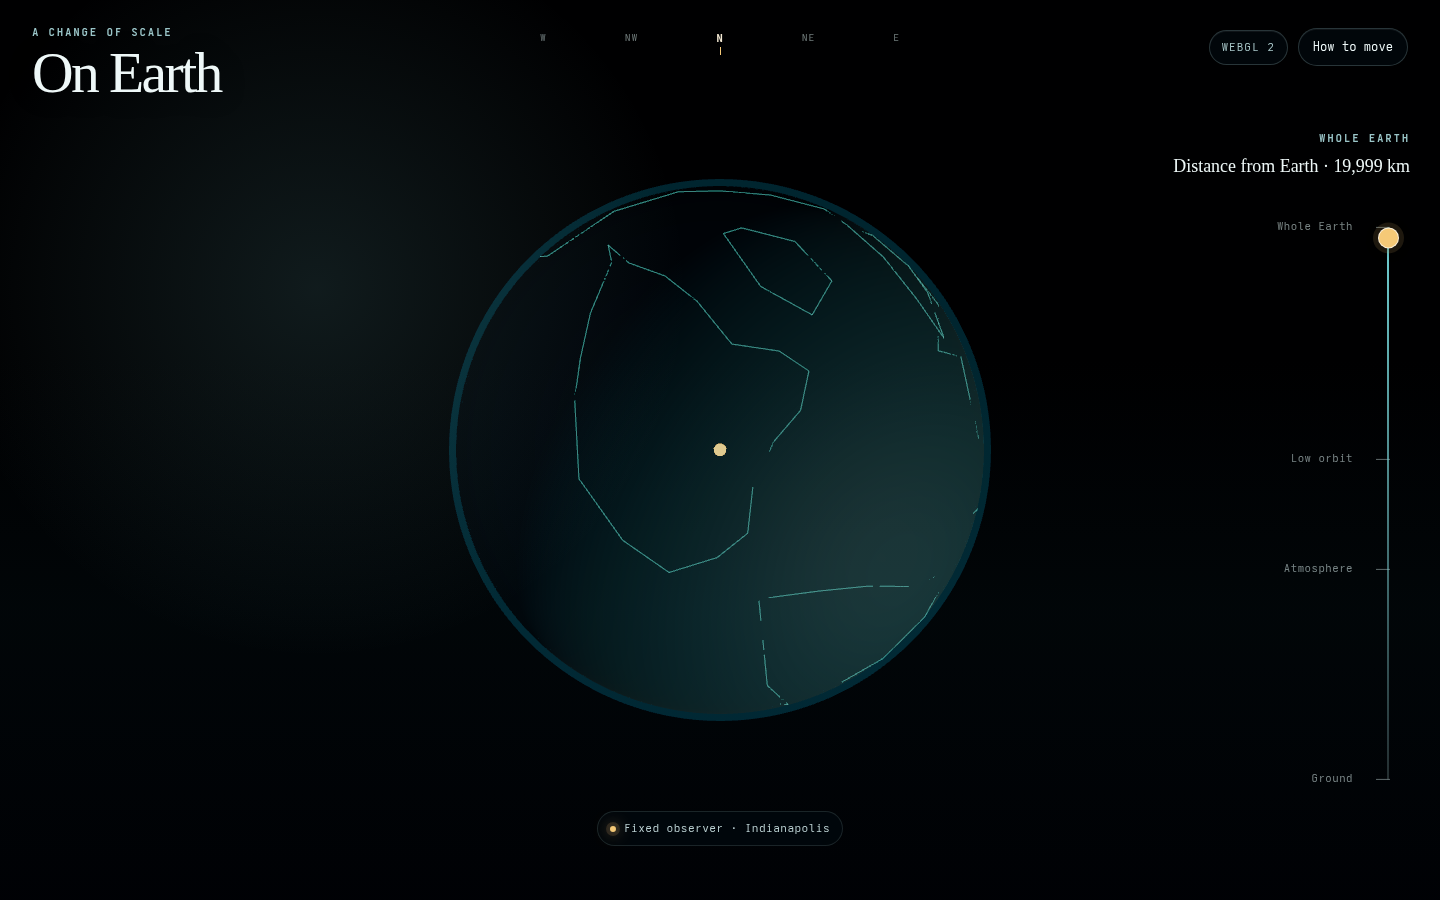
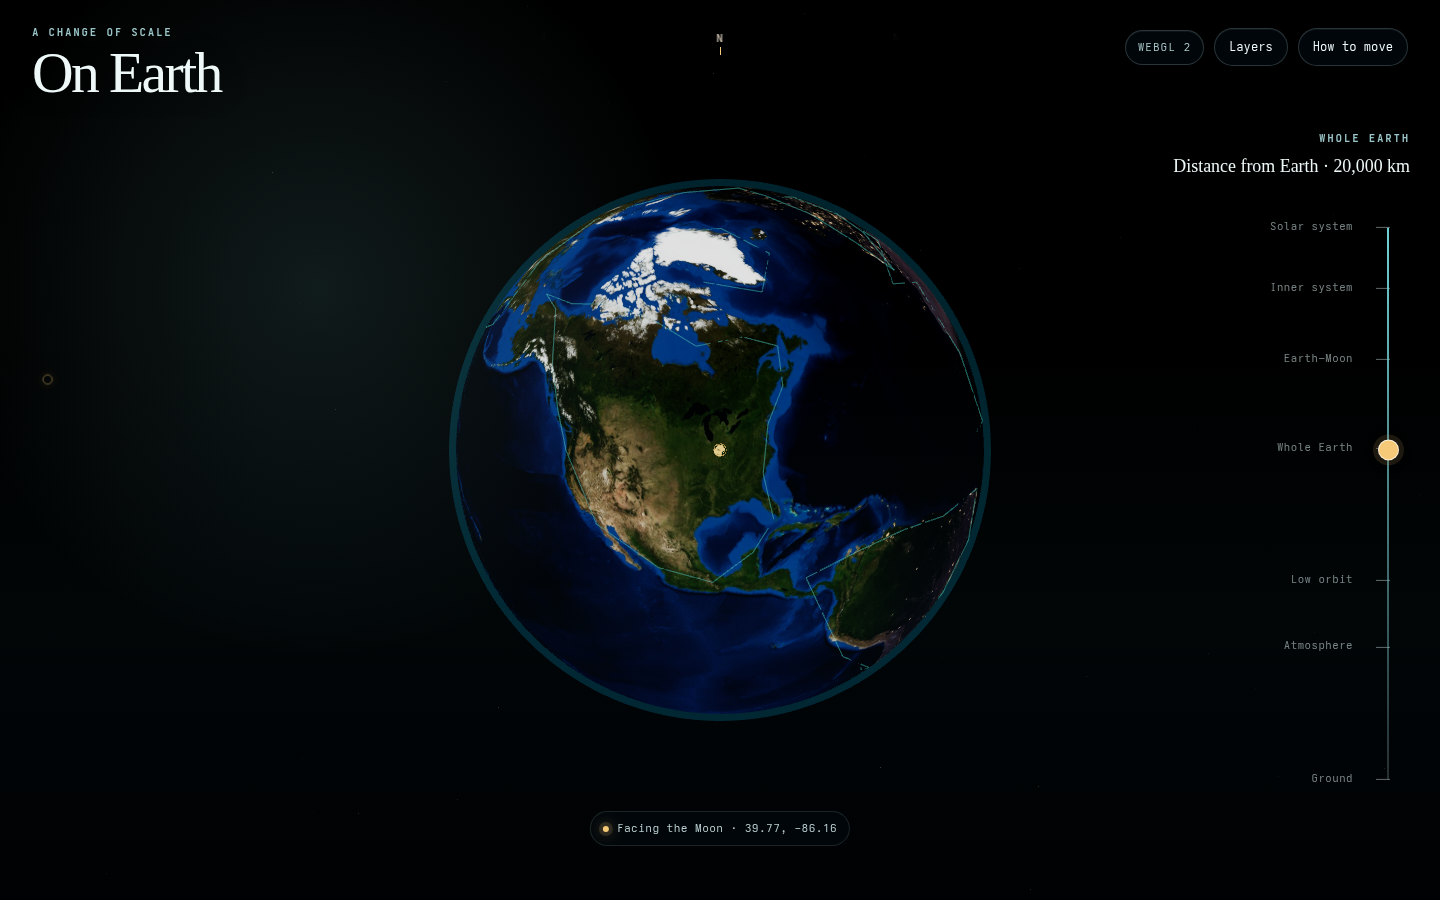
feat: begin the ecliptic roll at the atmosphere so the plane arrives flat
The screen-up re-level onto ecliptic north previously ran log-altitude
8.9→11.2 — past Earth–Moon — so the whole ascent stayed locked to the
ground frame and the Moon's orbit arrived on a steep diagonal. The band
is now 5→8.69: the roll starts as the sky gives way to space, turns
smoothly through low orbit and whole Earth, and is complete at the
Earth–Moon landmark, so the Moon's orbit and the solar system assemble
on an already-flat plane. Refreshed curated screenshots (plus a new
Earth–Moon capture), re-anchored the stale screenshots.spec slider
values, and switched the mobile Moon-marker activation to the keyboard
path (the marker can now sit under the debug card on portrait).

Claude-Session: https://claude.ai/code/session_01E5yZmSw5gTxraNDX9WxqBc

diff --git a/src/tests/camera.test.ts b/src/tests/camera.test.ts
@@ -83,15 +83,20 @@ describe("whole-Earth composition", () => {
     expect(journeyCompositionForSlider(1)).toBe(1);
   });
 
-  it("re-levels screen-up onto the ecliptic only beyond the Earth-Moon band", () => {
+  it("re-levels screen-up onto the ecliptic between the atmosphere and Earth-Moon", () => {
     expect(eclipticRollBlendForAltitude(2)).toBe(0);
-    expect(eclipticRollBlendForAltitude(20_000_000)).toBe(0);
-    expect(eclipticRollBlendForAltitude(500_000_000)).toBeLessThan(0.05);
-    expect(eclipticRollBlendForAltitude(400_000_000_000)).toBe(1);
+    expect(eclipticRollBlendForAltitude(100_000)).toBe(0);
+    // Turning through low orbit and whole Earth…
+    expect(eclipticRollBlendForAltitude(500_000)).toBeGreaterThan(0.05);
+    expect(eclipticRollBlendForAltitude(500_000)).toBeLessThan(0.25);
+    expect(eclipticRollBlendForAltitude(20_000_000)).toBeGreaterThan(0.5);
+    expect(eclipticRollBlendForAltitude(20_000_000)).toBeLessThan(0.9);
+    // …and already flat when the Earth–Moon system frames up.
+    expect(eclipticRollBlendForAltitude(500_000_000)).toBe(1);
     expect(eclipticRollBlendForAltitude(8_000_000_000_000)).toBe(1);
     // Monotonic through the transition band.
     let previous = 0;
-    for (let exponent = 8.9; exponent <= 11.2; exponent += 0.1) {
+    for (let exponent = 5; exponent <= 8.7; exponent += 0.1) {
       const value = eclipticRollBlendForAltitude(10 ** exponent);
       expect(value).toBeGreaterThanOrEqual(previous);
       previous = value;

diff --git a/src/camera/camera-compositions.ts b/src/camera/camera-compositions.ts
@@ -99,13 +99,15 @@ export function systemCompositionForAltitude(
 
 /**
  * How strongly screen-up re-levels from the observer's zenith to ecliptic
- * north on the outward journey (0 at Earth–Moon scale and below, 1 by the
- * inner system). This roll is the "I was standing on the side of a planet"
- * reveal: the solar system's plane settles flat while your ground tilts away.
+ * north on the outward journey (0 through the atmosphere, 1 by the
+ * Earth–Moon landmark). This roll is the "I was standing on the side of a
+ * planet" reveal: it begins as the sky fades to space, turns the world
+ * smoothly through low orbit and whole Earth, and has the solar system's
+ * plane already flat before the system assembles around it.
  */
 export function eclipticRollBlendForAltitude(altitudeM: number): number {
   const logAltitude = Math.log10(Math.max(1, altitudeM));
-  const t = Math.min(1, Math.max(0, (logAltitude - 8.9) / (11.2 - 8.9)));
+  const t = Math.min(1, Math.max(0, (logAltitude - 5) / (8.69 - 5)));
   return t * t * (3 - 2 * t);
 }
 

diff --git a/tests/e2e/screenshots.spec.ts b/tests/e2e/screenshots.spec.ts
@@ -5,10 +5,11 @@ const fixedScenario =
 
 const landmarks = [
   { name: "ground", sliderValue: "0", settleMs: 500 },
-  { name: "atmosphere", sliderValue: "0.3", settleMs: 2_500 },
-  { name: "low-orbit", sliderValue: "0.46", settleMs: 2_500 },
-  { name: "whole-earth", sliderValue: "0.78", settleMs: 3_500 },
-  { name: "earth-moon", sliderValue: "1", settleMs: 4_000 },
+  { name: "atmosphere", sliderValue: "0.24", settleMs: 2_500 },
+  { name: "low-orbit", sliderValue: "0.36", settleMs: 2_500 },
+  { name: "whole-earth", sliderValue: "0.6", settleMs: 3_500 },
+  { name: "earth-moon", sliderValue: "0.76", settleMs: 4_000 },
+  { name: "full-system", sliderValue: "1", settleMs: 5_000 },
 ] as const;
 
 test("captures fixed Phase 1 landmarks", async ({ page }, testInfo) => {

diff --git a/tests/e2e/phase-three.spec.ts b/tests/e2e/phase-three.spec.ts
@@ -49,10 +49,10 @@ test("the Moon's marker remains selectable at system scale and opens the inset",
   const moonMarker = page.locator(".sky-marker[data-body=moon]");
   await expect(moonMarker).toBeVisible();
   await expect(moonMarker).not.toHaveClass(/sky-marker--ghost/);
-  const markerBox = await moonMarker.boundingBox();
-  expect(markerBox).not.toBeNull();
-  if (!markerBox) return;
-  await page.mouse.click(markerBox.x + markerBox.width / 2, markerBox.y + 9);
+  // With the ecliptic roll the Moon can sit near the bottom edge, under the
+  // debug telemetry card on portrait — activate via the keyboard path.
+  await moonMarker.focus();
+  await page.keyboard.press("Enter");
 
   const inset = page.getByRole("complementary", { name: "Moon inspection" });
   await expect(inset).toBeVisible();

diff --git a/docs/ADR/0008-heliocentric-solar-system.md b/docs/ADR/0008-heliocentric-solar-system.md
@@ -70,9 +70,16 @@ landmarks — without enlarging any body.
 User feedback: the outward journey kept the observer's ground orientation as
 screen-up, so the solar system arrived tilted and the "I am standing on the
 side of a planet" realization never landed. The camera now rolls screen-up
-from the local zenith onto the J2000 ecliptic north across the band beyond
-Earth–Moon (log-altitude 8.9 → 11.2, `eclipticRollBlendForAltitude`): the
-system's plane settles flat on screen while the ground visibly tilts away.
-Implemented as a signed roll about the gaze axis applied to the base
-orientation; free-look offsets ride on top unchanged, and the blend is zero
-through every Phase 1–3 scale so earlier compositions are untouched.
+from the local zenith onto the J2000 ecliptic north, implemented as a signed
+roll about the gaze axis applied to the base orientation; free-look offsets
+ride on top unchanged (and already unwind during scale travel), so the
+arrival orientation is repeatable regardless of where the user was looking.
+
+Retuned after live feedback: the original band (log-altitude 8.9 → 11.2,
+beyond Earth–Moon) fired so late that the whole ascent still felt locked to
+the ground frame and the Earth–Moon view arrived on a steep diagonal. The
+band is now log-altitude 5 → 8.69 (`eclipticRollBlendForAltitude`): the roll
+begins as the atmosphere gives way to space, turns the world smoothly through
+low orbit and whole Earth, and is complete at the Earth–Moon landmark — the
+Moon's orbit and everything beyond assemble on an already-flat plane. The
+blend stays zero at ground scale, so the opening sky is untouched.

diff --git a/README.md b/README.md
@@ -16,7 +16,7 @@ All six phases of `SPEC.md` (0–5) are implemented: the precision ground-to-who
 - Keep pulling out to the **Earth–Moon landmark at 500,000 km**: the physical Moon at true, uncompressed distance, its real orbit traced around Earth, and a sunlight-direction guide — with a jump-free hand-off from the sky view
 - Click the Moon for an inspection inset: phase disc, phase name, illuminated fraction, and distance, always matching the scene geometry
 - Continue out to the **inner system (2.7 AU)** and the **full solar system (53 AU)**: every planet to Pluto at its true current position and radius, riding precomputed orbit lines, with faint ecliptic rings making the plane of the solar system visible
-- On the way out, the view **rolls from your local "up" onto the plane of the solar system** — the ecliptic settles flat on screen while your ground tilts away, revealing that you were standing on the side of a planet
+- On the way out, the view **rolls from your local "up" onto the plane of the solar system** — starting as the atmosphere gives way to space and complete by the Earth–Moon landmark, the ecliptic settles flat on screen while your ground tilts away, revealing that you were standing on the side of a planet
 - Select any body's marker for distances and magnitude; nothing is ever enlarged — markers carry the discoverability
 - **NASA Blue Marble** Earth with **Black Marble city lights** on the physically-lit night side (async-loaded, ~1.1 MB, attributed)
 - A Layers panel for optional explanation geometry: orbits, ecliptic rings, Moon orbit, sunlight direction, Earth axis & equator, sky grid, labels — sparse by default
@@ -67,9 +67,9 @@ pnpx @playwright/cli@latest screenshot
 
 ## Screenshots
 
-| Ground                                              | Atmosphere                                                  | Low orbit                                                 | Whole Earth                                                   |
-| --------------------------------------------------- | ----------------------------------------------------------- | --------------------------------------------------------- | ------------------------------------------------------------- |
-| ![Ground](artifacts/screenshots/desktop-ground.png) | ![Atmosphere](artifacts/screenshots/desktop-atmosphere.png) | ![Low orbit](artifacts/screenshots/desktop-low-orbit.png) | ![Whole Earth](artifacts/screenshots/desktop-whole-earth.png) |
+| Ground                                              | Atmosphere                                                  | Low orbit                                                 | Whole Earth                                                   | Earth–Moon                                                  |
+| --------------------------------------------------- | ----------------------------------------------------------- | --------------------------------------------------------- | ------------------------------------------------------------- | ------------------------------------------------------------ |
+| ![Ground](artifacts/screenshots/desktop-ground.png) | ![Atmosphere](artifacts/screenshots/desktop-atmosphere.png) | ![Low orbit](artifacts/screenshots/desktop-low-orbit.png) | ![Whole Earth](artifacts/screenshots/desktop-whole-earth.png) | ![Earth–Moon](artifacts/screenshots/desktop-earth-moon.png) |
 
 Mobile captures and debug evidence are also available in [`artifacts/screenshots/`](artifacts/screenshots/).
 